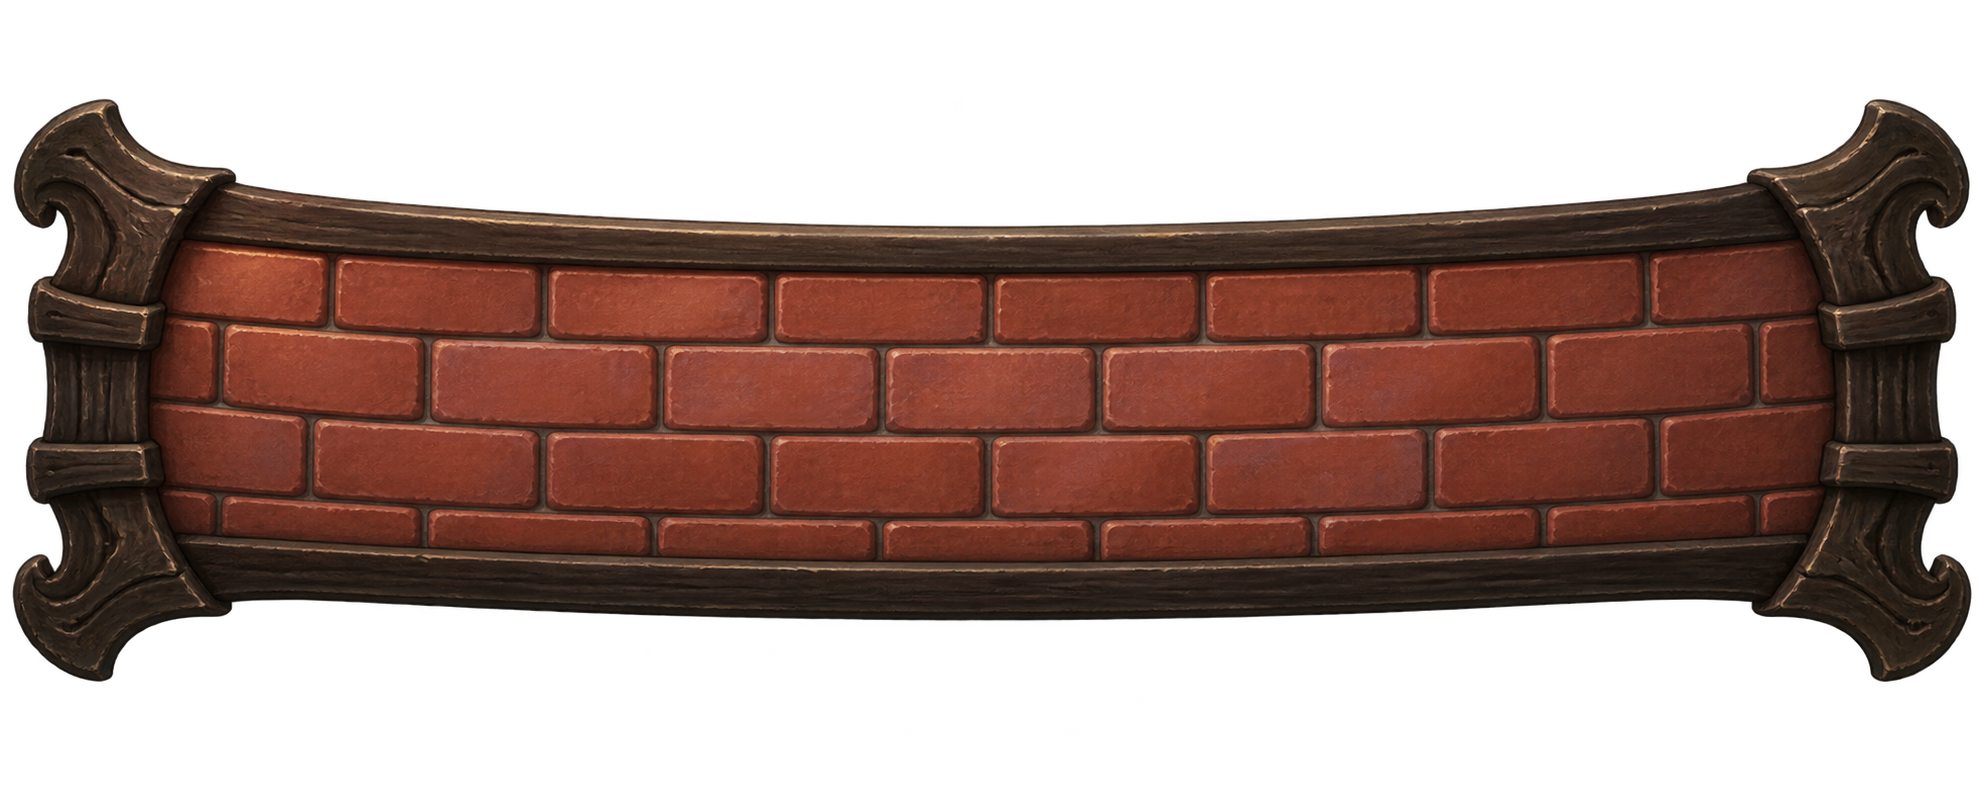
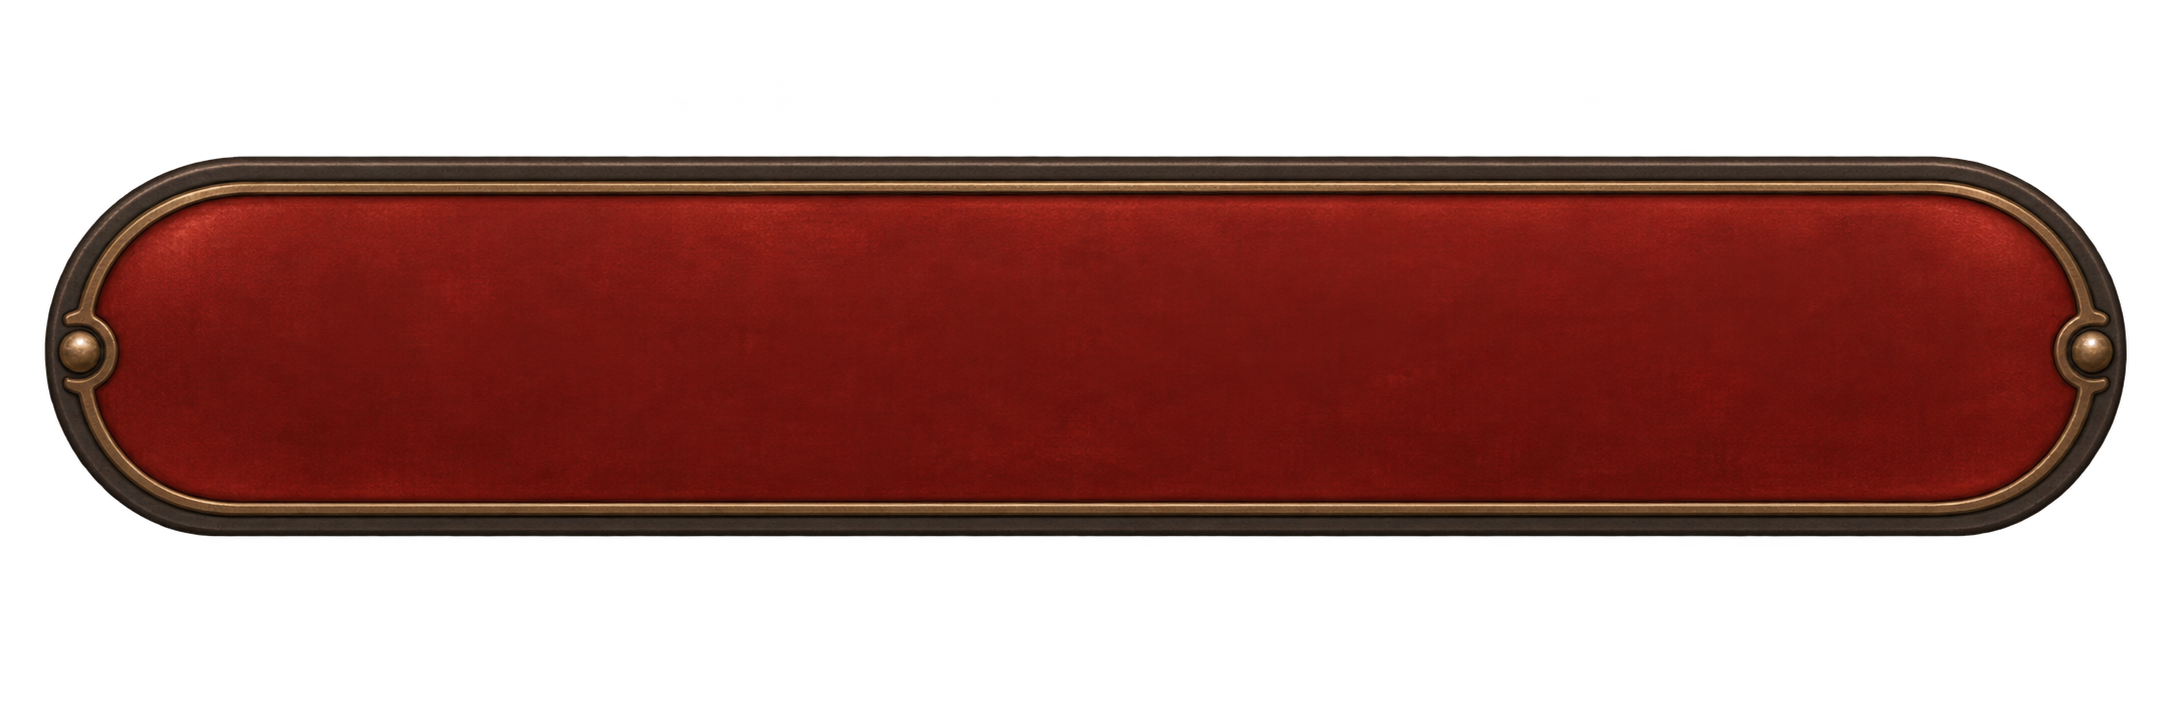
feat: 일반형 UI 버튼 표면 교체

diff --git a/output/ui-elements/tools/prepare_button_surface.py b/output/ui-elements/tools/prepare_button_surface.py
@@ -1,0 +1,35 @@
+from __future__ import annotations
+
+import sys
+from pathlib import Path
+
+from PIL import Image
+
+
+TARGETS = {
+    'btn-primary-tile': (360, 112),
+    'btn-secondary-brick': (360, 112),
+    'btn-travel-jade': (360, 112),
+    'btn-danger-brick': (360, 112),
+    'btn-segment': (320, 80),
+    'btn-segment-active': (320, 80),
+    'btn-round': (132, 132),
+}
+
+
+def main() -> None:
+    asset_id = sys.argv[1]
+    target = TARGETS[asset_id]
+    source_dir = Path('output/ui-elements/source')
+    generated = Image.open(source_dir / f'{asset_id}-generated.png').convert('RGBA')
+    alpha_bounds = generated.getchannel('A').getbbox()
+    if alpha_bounds is None:
+        raise ValueError(f'{asset_id} has no visible pixels')
+    cropped = generated.crop(alpha_bounds)
+    fitted = cropped.resize(target, Image.Resampling.LANCZOS)
+    fitted.save(source_dir / f'{asset_id}.png')
+    fitted.save(Path('assets/ui/button') / f'{asset_id}.webp', 'WEBP', lossless=True, method=6)
+
+
+if __name__ == '__main__':
+    main()

diff --git a/output/ui-elements/CLAUDE-APPLY-THEME.md b/output/ui-elements/CLAUDE-APPLY-THEME.md
@@ -91,6 +91,10 @@ P1 고정 문구 라벨 48종을 `/ui/label/`에 추가했다. 버튼용 `label-
 | P0 라벨·제목 | `label-*` → 해당 버튼의 고정 문구, `title-*` → `.sheet-header`, `section-goal-*` → `GoalsView` 구역 제목 | `label-train*`·`label-climb`·`label-boss-challenge`은 전투/무공, `label-claim`·`label-claimed`·`label-goal-progress`는 목표, `label-sfx-*`은 설정에 쓴다. 수치·횟수·비용·상태는 절대 이미지로 대체하지 않는다. |
 | P0 아이콘 | 재화 `icon-gold`·`icon-chi`·`icon-elixir`·`icon-contribution`·`icon-stones`, 기능 `icon-settings`·`icon-close`·`icon-back`·`icon-lock`·`icon-dropdown`·`icon-badge`, 전투·능력치·행동 P0 아이콘 | 재화·능력치·상태·행동 보조는 20px, 설정·닫기·뒤로·잠금은 24px, 드롭다운은 16px, 배지는 12px이다. `icon-gold` 등 비용 아이콘은 수치 앞에만 두며 이름·수치·`aria-label`을 유지한다. |
 
+### 버튼 표면 교체 (2026-09-20)
+
+`btn-primary-tile`, `btn-secondary-brick`, `btn-travel-jade`, `btn-danger-brick`, `btn-segment`, `btn-segment-active`, `btn-round`은 기왓장·벽돌·말림 장식형에서 **텍스트 우선의 일반 버튼 표면**으로 다시 제작했다. 파일명·원본 크기·3-slice 값은 기존 매니페스트와 같으므로 CSS 셀렉터·`border-image` 선언은 바꾸지 않는다. 주요 버튼은 연한 금빛, 보조 버튼은 숯색, 이동 버튼은 옥색, 위험 버튼은 짙은 적색, 선택 소탭은 남색으로 구분한다. 모든 바탕의 중앙은 비워 두었으므로 버튼 라벨과 비용·보조 문구는 HTML 텍스트로 겹쳐 표시한다.
+
 P0 적용 뒤에는 320px·390px·430px에서 전투·무공·설정·재화 팝업을 열어 9-slice 모서리, 탭 선택 상태, 게이지 수치와 고정 라벨이 겹치지 않는지 확인한다.
 
 ## P1 후속 적용 지시

diff --git a/wiki/concepts/UI-Element-대체-기획서.md b/wiki/concepts/UI-Element-대체-기획서.md
@@ -674,6 +674,10 @@ CSS 색·테두리·그라데이션만으로 그린 현재 UI를 **게임 UI 이
 | `icon-action-donate` | 완료 | `assets/ui/icon/icon-action-donate.webp`, 60×60 원본·20px 표시 |
 | `icon-action-exchange` | 완료 | `assets/ui/icon/icon-action-exchange.webp`, 60×60 원본·20px 표시 |
 
+### 10.3 P0 버튼 표면 개정
+
+`btn-primary-tile`, `btn-secondary-brick`, `btn-travel-jade`, `btn-danger-brick`, `btn-segment`, `btn-segment-active`, `btn-round`은 기왓장·벽돌 같은 강한 질감을 제거하고 중앙을 비운 일반 버튼 표면으로 교체했다. 파일명·크기·slice는 유지하므로 게임 반영 단계에서는 기존 CSS 연결을 그대로 두고, 버튼 라벨·비용·상태 문구의 대비와 겹침만 다시 검수한다.
+
 ## 11. 코덱스 프롬프트
 
 아래 프롬프트를 순서대로 하나씩 코덱스에 전달한다. 각 프롬프트는 앞 단계 결과가 승인된 뒤 실행한다.
